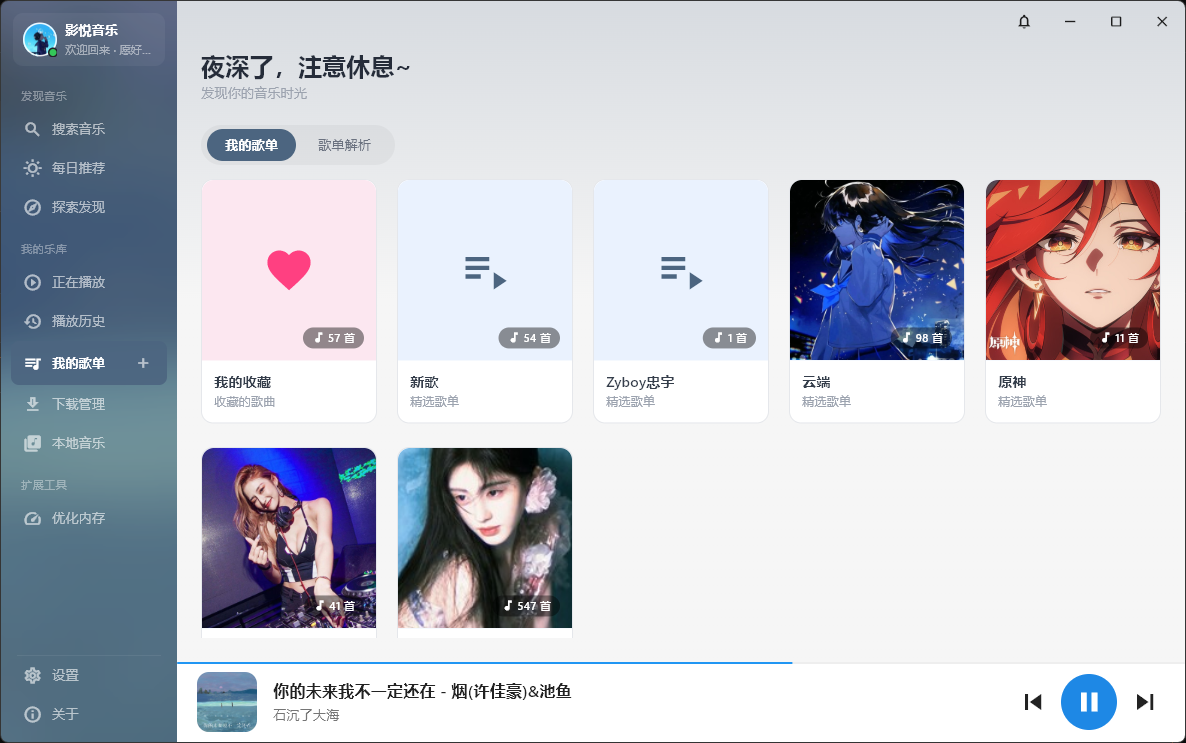
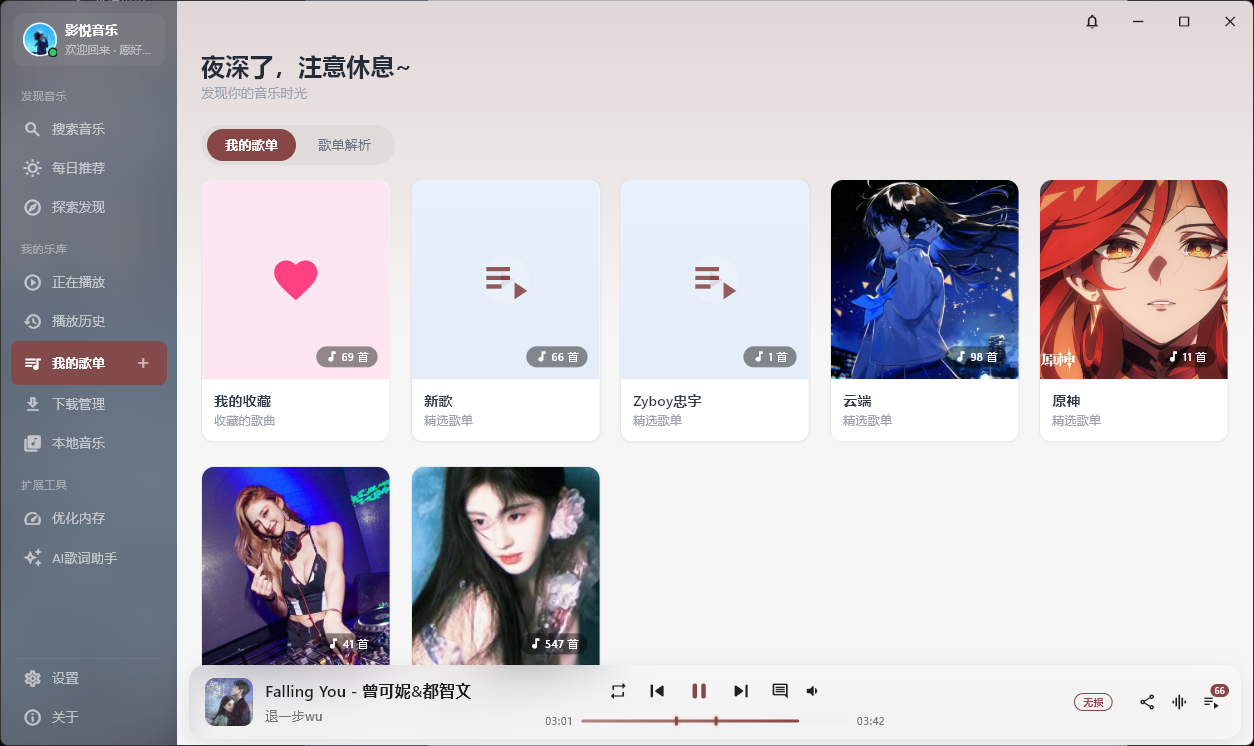
update README.md.

diff --git a/README.md b/README.md
@@ -86,8 +86,8 @@
 1. 在搜索框中输入关键词
 2. 点击搜索按钮、按回车键或点击弹出的搜索建议
 3. 在搜索结果中点击歌曲进行播放
-![搜索历史、热搜](images/image2.png.png)
-![搜索功能](images/image.png.png)
+![搜索历史、热搜](images/image2.png)
+![搜索](images/image.png)
 
 ### 播放音乐
 
@@ -95,13 +95,13 @@
 2. 歌曲会在底部播放器中开始播放
 3. 可以使用播放器控制播放、暂停、上一曲、下一曲、音量、试听音质、添加到歌单、使用音效
 4. 播放页UI随着图片的颜色自动变化来作为主题色
-![播放页](images/image3.png.png)
+![播放页](images/image3.png)
 5. 音效
-![音效](images/yx.png)
+![音效](images/ys.png)
 
 ### 悬浮窗桌面歌词
 - 自由调整字体大小、背景透明度
-![悬浮歌词](images/lyr.png)
+![桌面歌词](images/lyr.png)
 
 ### MV
 1. 多种清晰度选择
@@ -122,7 +122,7 @@
 ### 探索发现
 
 1. 歌单
-![歌单列表](images/gd.png)
+![歌单](images/gd.png)
 2. 排行榜（包含官方、特色、场景、语言、全球）
 ![排行榜](images/phb.png)
 3. 歌手（进入详情页有歌手信息、歌曲、mv）
@@ -137,7 +137,14 @@
 4、可导入KW以及其他平台的歌单
 ![每日推荐](images/image61.png)
 ![导入的歌单](images/image62.png)
-![导入歌单功能](images/image63.png)
+![导入歌单的功能](images/image63.png)
+
+### AI功能（测试）
+
+1. 当前只支持硅基流动的大模型（因为有免费的可以用）；
+2. 可自定义大模型密钥和模型（使用自己的密钥最稳妥，如果觉得免费的不好用或者下架了，可以自己前往硅基流动选择其他的模型）；
+3. 为了可以联网，我接入了秘塔API，这个也需要自定义Api-Key（这个是免费的，不过和大模型不一样的是每日有100免费积分，以及新用户的1000长期积分，对于我的软件来说是戳戳有余的）
+![AI功能](images/ai.png)
 
 ### 设置
 
